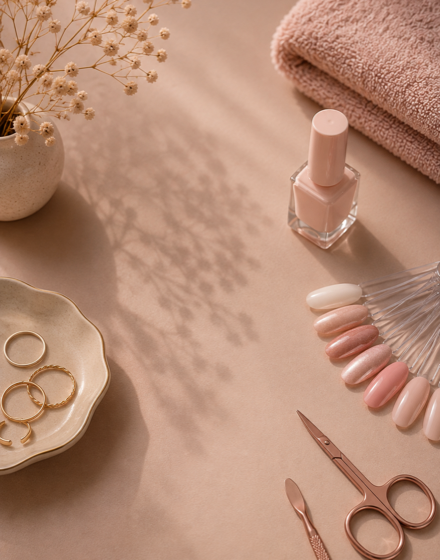
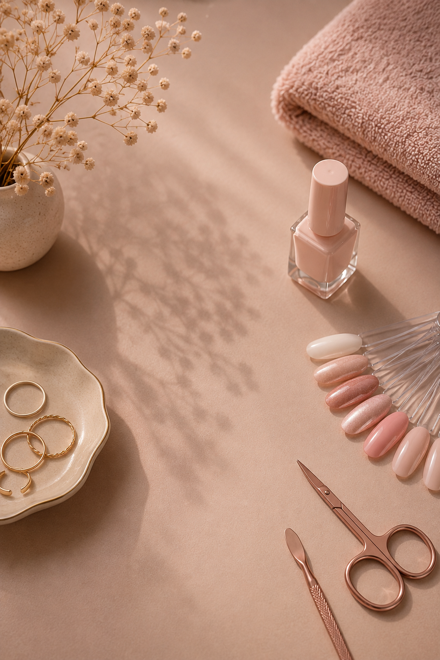
fix(keşfet): üç fotoğraf kırpılmadan, sadece küçültülerek konuldu
Kurucu: "3 kartı alakasız kırpmıssın. kıprman degıl o ebada olabıldıgınce
kucultmen lazımdı. ve sonra kırpman gerekıyorsa kırpmalıydın."

Haklı, sırayı ters yapmışım: önce kart oranına kırpıp sonra küçülttüm.
Sorun şu ki kart zaten `resizeMode="cover"` ile çalışma anında kendi
kırpmasını yapıyor — benim kırpmam onun ÜSTÜNE bindi. Tırnak
fotoğrafında %15 yerine yaklaşık %28 içerik gitti.

Doğrusu: kırpma yok, tam görsel 440 genişliğe küçültülüyor. Kalan
taşmayı `cover` cihazın gerçek kart oranına göre en az şekilde kendisi
kırpıyor — kart genişliği `flex: 1` olduğu için ekrandan ekrana değişiyor,
yani doğru kırpmayı peşinen bilmek zaten mümkün değildi.

Ne görüneceğini asıl dosyaları bozmadan bir kopyada simüle edip baktım:
üçünde de konu tam kadrajda — aynanın tamamı, oje/makas/tırnak paleti,
harita iğnesi.

Aynı hataya bir daha düşmemek için kural klasörün içine yazıldı
(`assets/hizli-eylem/OKUBENI.md`): görsel değiştiren bir sonraki kişi
komutu ve sebebini orada bulur.

348 mobil test geçiyor.

diff --git a/apps/mobile/assets/hizli-eylem/OKUBENI.md b/apps/mobile/assets/hizli-eylem/OKUBENI.md
@@ -1,0 +1,39 @@
+# Hızlı eylem görselleri
+
+Keşfet ana sayfasındaki üç kartın fotoğrafları. Kurucunun kendi verdiği
+görseller.
+
+## Hazırlarken
+
+**Kırpma. Sadece küçült.**
+
+Kurucu: "kıprman degıl o ebada olabıldıgınce kucultmen lazımdı. ve sonra
+kırpman gerekıyorsa kırpmalıydın."
+
+Bir kez tam tersini yaptım: önce kart oranına kırpıp sonra küçülttüm.
+Sonuç iki kat kayıp oldu — çünkü kart zaten `resizeMode="cover"` ile
+çalışma anında kendi kırpmasını yapıyor. Benim kırpmam onun üstüne
+biniyordu; tırnak fotoğrafında %15 yerine yaklaşık %28 içerik gitti.
+
+Doğrusu:
+
+```bash
+sips --resampleWidth 440 kaynak.PNG --out hedef.png
+```
+
+Kırpma YOK. `cover` cihazın gerçek kart oranına göre en az kırpmayı
+kendisi yapar; farklı ekran genişliklerinde kart oranı da değişiyor,
+yani doğru kırpmayı burada peşinen bilemeyiz.
+
+Ne görüneceğini önceden görmek istersen ASIL dosyayı bozmadan bir
+kopyada dene:
+
+```bash
+cp hedef.png /tmp/onizleme.png
+sips -c 560 440 /tmp/onizleme.png --out /tmp/onizleme.png
+```
+
+## Ölçü
+
+440 px genişlik yeterli: kart ~110pt genişliğinde, 3x ekranda 330 px.
+Yükseklik görselin kendi oranından gelir.
